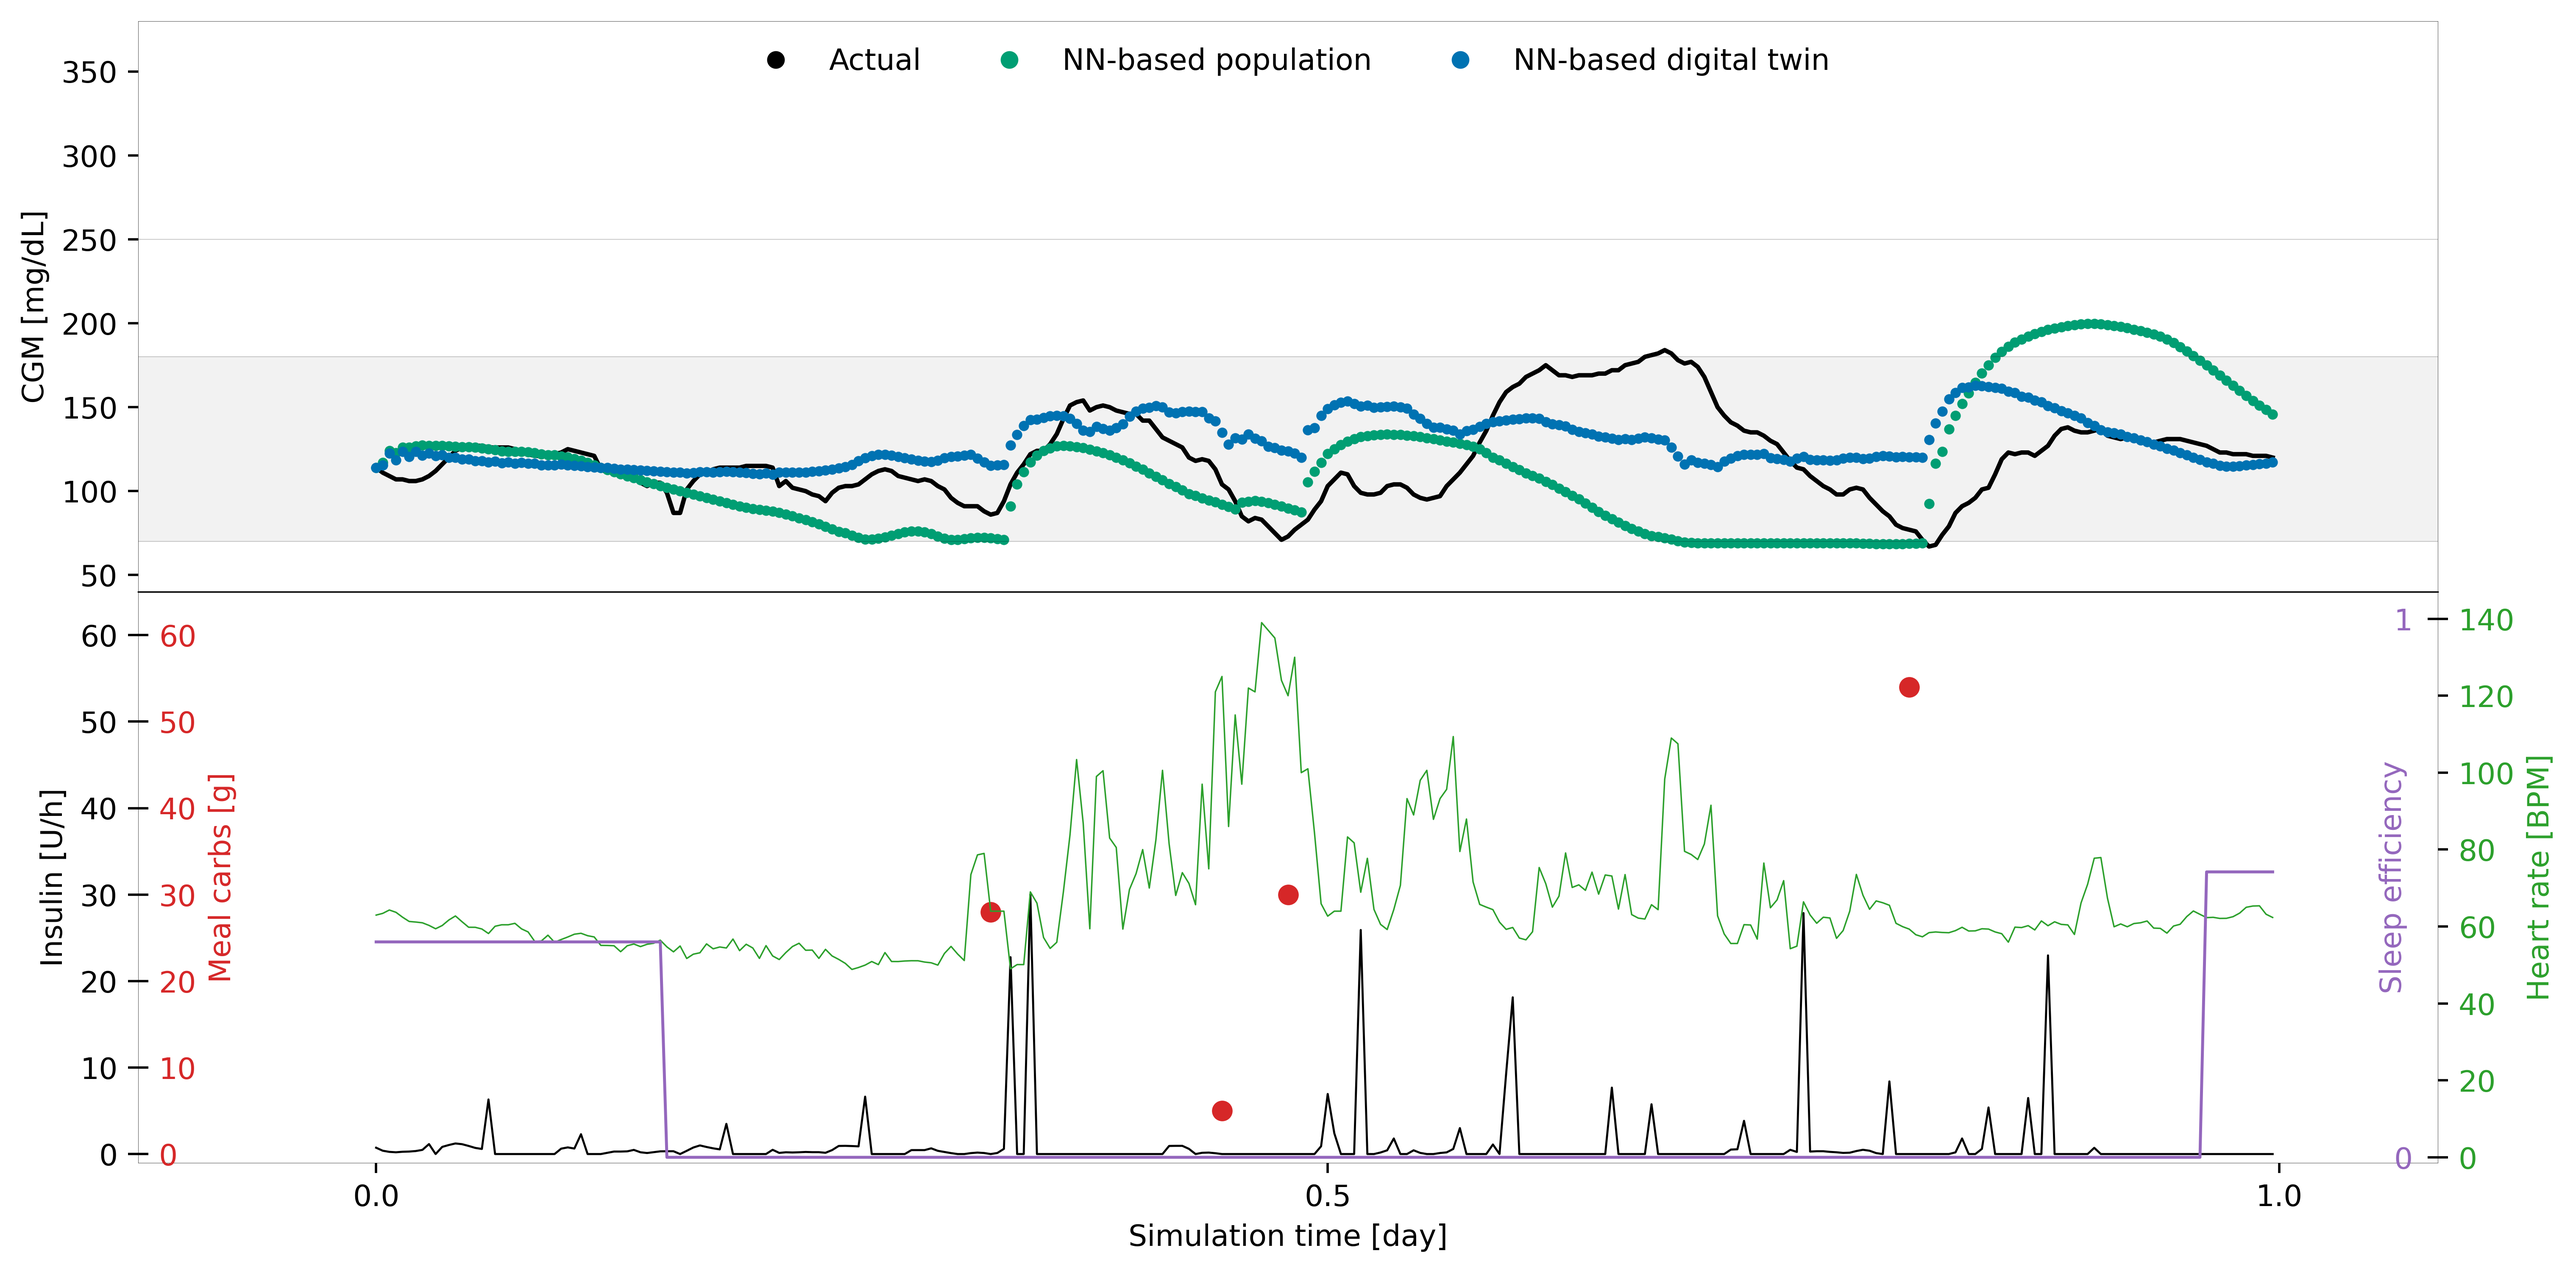
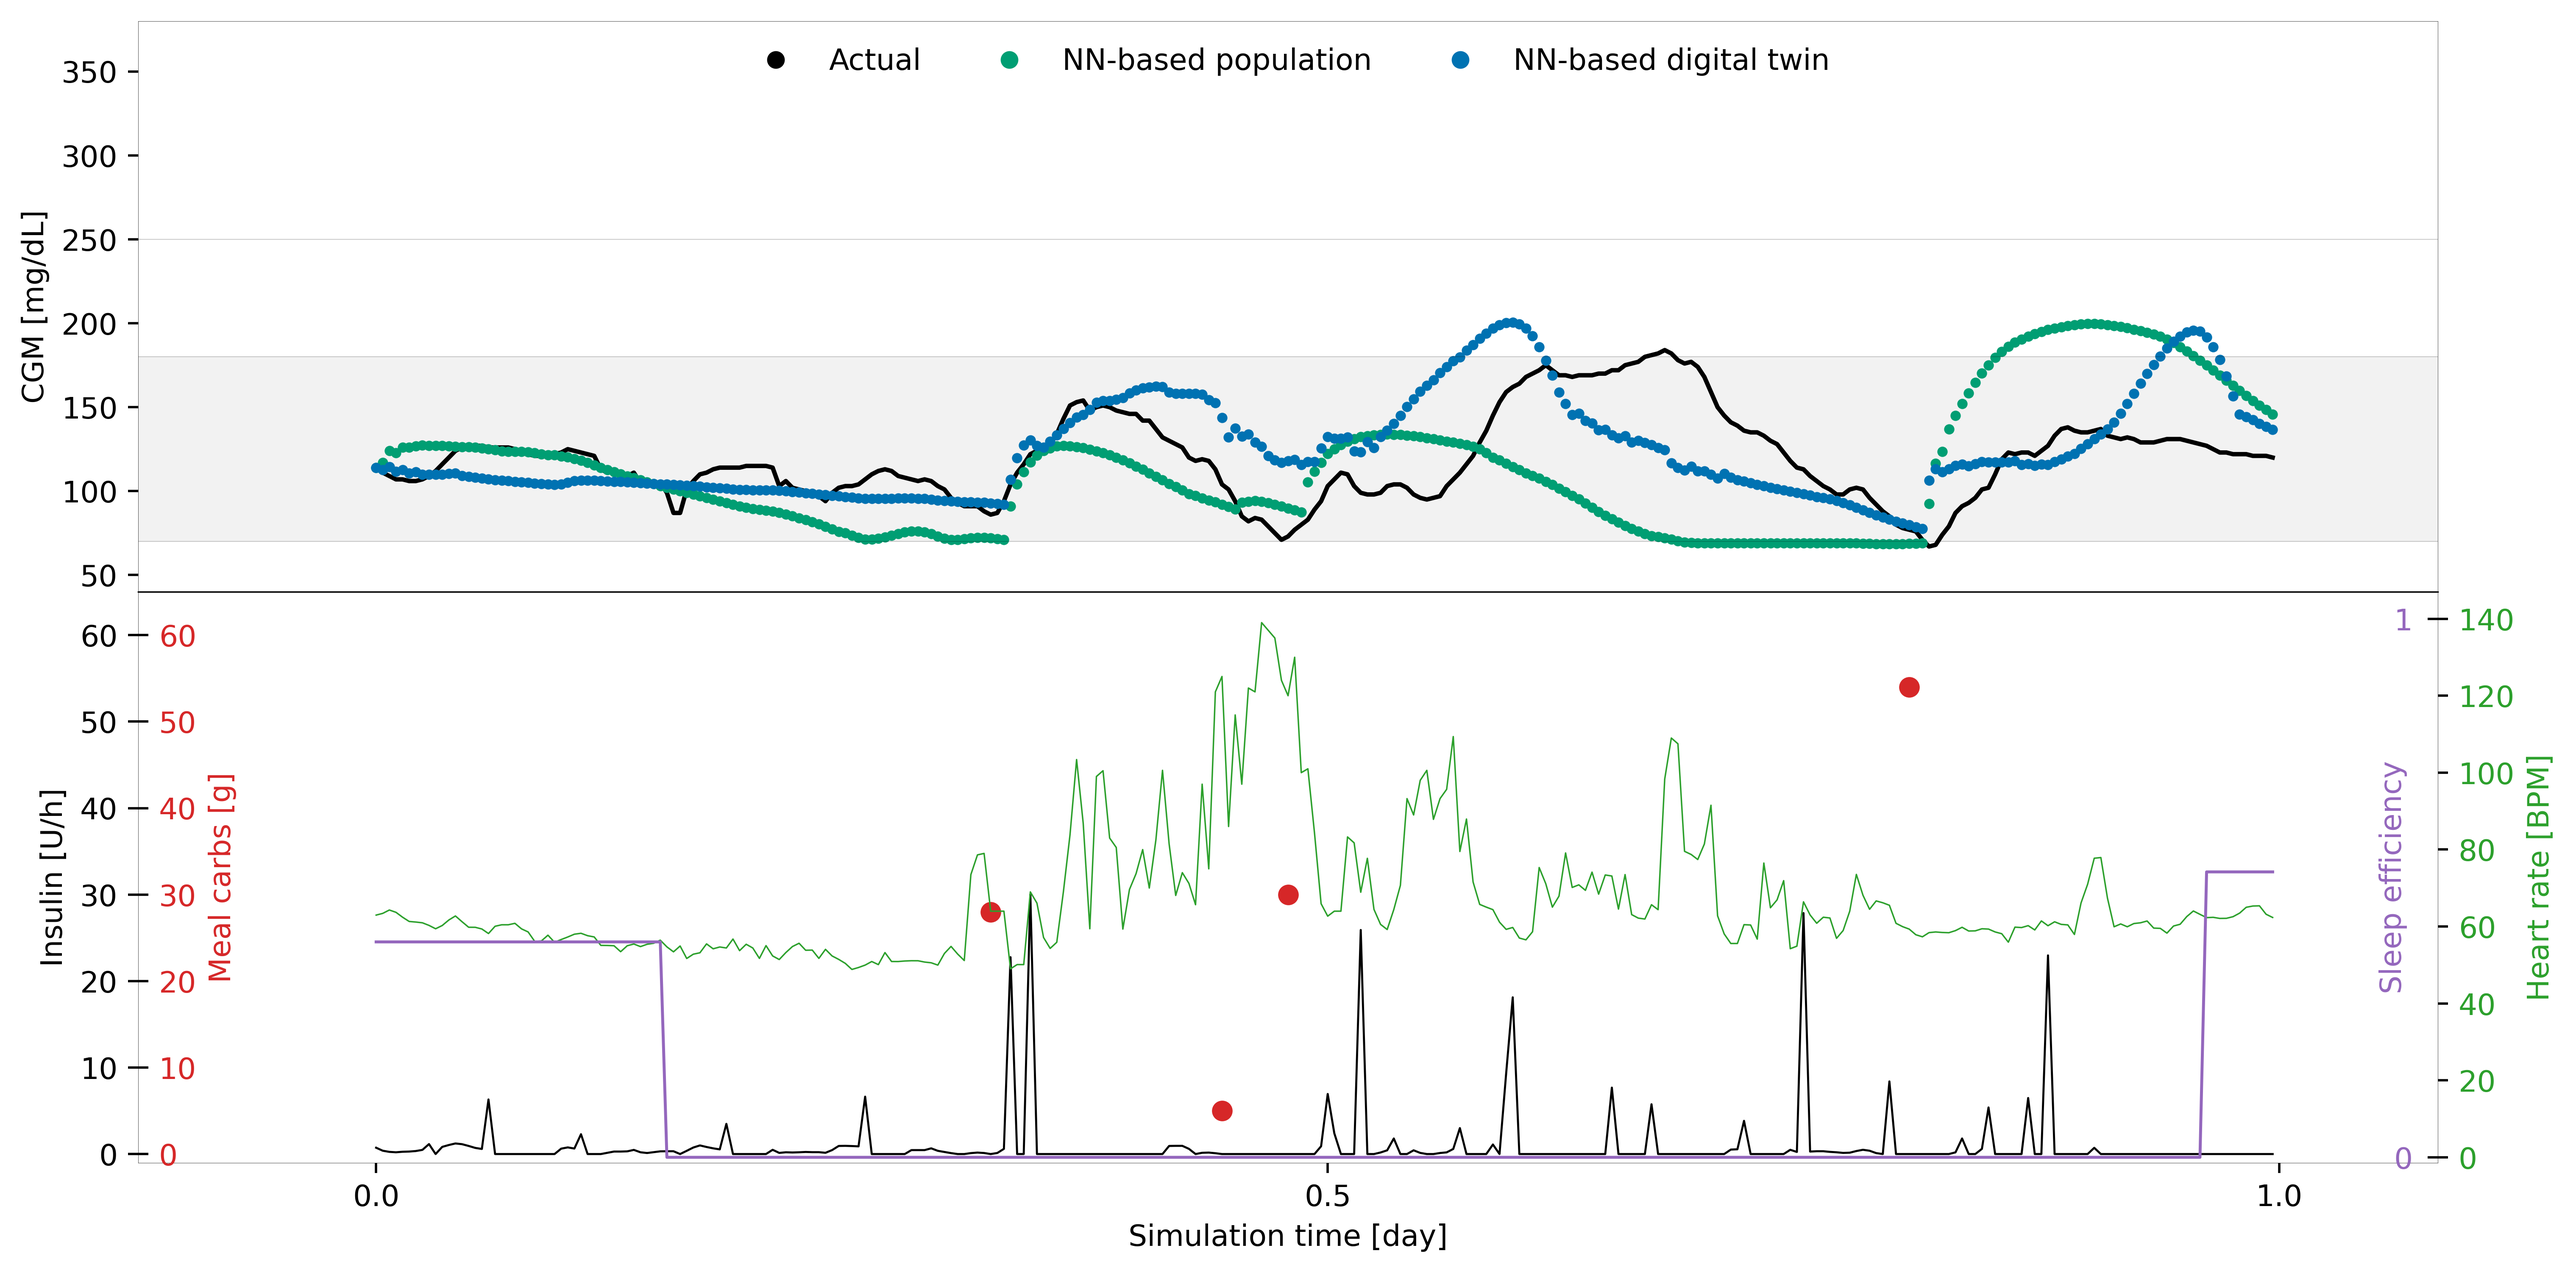
fix: getInitSSFromFile now has as input the cgm without scaling

diff --git a/src/t1dsim_ai/individual_model.py b/src/t1dsim_ai/individual_model.py
@@ -1,3 +1,5 @@
+import matplotlib.pyplot as plt
+
 from t1dsim_ai.utils.preprocess import scaler as scaler_pop
 from t1dsim_ai.utils.preprocess import (
     scaler_inverse,
@@ -118,6 +120,8 @@ class ForwardEulerSimulator(nn.Module):
                 x_step[:, 0] = self.adjust_cgm(x_step[:, 0])
 
         X_sim = torch.stack(X_sim_list, 0)
+
+
         return X_sim
 
 
@@ -231,11 +235,13 @@ class IndividualModel:
             u_ind_test[:, idx_robust]
         )
 
+        self.cgm_real_train = scale_inverse_Q1(np.copy(x_est_train[:, 0]),self.popModelFolder).reshape(-1, sim_time_train, 1)
         self.y_id_train = np.copy(x_est_train[:, 0]).reshape(-1, sim_time_train, 1)
         self.x_est_train = x_est_train.reshape(-1, sim_time_train, len(states))
         self.u_pop_train = u_pop_train.reshape(-1, sim_time_train, len(inputs_pop))
         self.u_ind_train = u_ind_train.reshape(-1, sim_time_train, len(input_ind))
 
+        self.cgm_real_test = scale_inverse_Q1(np.copy(x_est_test[:, 0]),self.popModelFolder).reshape(-1, sim_time_test, 1)
         self.y_id_test = np.copy(x_est_test[:, 0]).reshape(-1, sim_time_test, 1)
         self.x_est_test = x_est_test.reshape(-1, sim_time_test, len(states))
         self.u_pop_test = u_pop_test.reshape(-1, sim_time_test, len(inputs_pop))
@@ -263,7 +269,7 @@ class IndividualModel:
             self.seq_len,
             overlap,
             self.device,
-            [self.x_est_train, self.u_pop_train, self.y_id_train, self.u_ind_train],
+            [self.x_est_train, self.u_pop_train, self.y_id_train, self.u_ind_train,self.cgm_real_train],
         )
 
         # Setup neural model structure
@@ -404,7 +410,7 @@ class IndividualModel:
             )
 
         return LOSS_TRAIN[-1]
-
+    #"""
     def loss(self, y_pred, y_true):
         err_fit = y_pred[1:, :] - y_true[1:, :]
         err_df = torch.diff(y_pred, axis=0) - torch.diff(y_true, axis=0)
@@ -426,7 +432,12 @@ class IndividualModel:
         MSE_Dcgm = torch.mean((err_df) ** 2)
 
         return MSE_cgm + 10 * MSE_Dcgm
-
+    """
+    def loss(self, y_pred, y_true):
+        err_fit = y_pred[1:, :] - y_true[1:, :]
+        MSE_cgm = torch.mean(((err_fit) ** 2))
+        return MSE_cgm
+    """
 
 class Batch:
     def __init__(self, batch_size, seq_len, overlap, device, data):
@@ -437,7 +448,7 @@ class Batch:
         self.device = device
 
         # Reshape
-        x_est, u_fit, y_fit, u_fit_ind = data
+        x_est, u_fit, y_fit, u_fit_ind, cgm_real = data
         self.x_est = np.array(
             [
                 frame(
@@ -473,13 +484,22 @@ class Batch:
                 for i in range(len(u_fit_ind))
             ]
         ).reshape(-1, seq_len, u_fit_ind.shape[2])
+        self.cgm_real = np.array(
+            [
+                frame(
+                    cgm_real[i], frame_length=self.seq_len, hop_length=self.overlap, axis=0
+                )
+                for i in range(len(cgm_real))
+            ]
+        ).reshape(-1, seq_len, cgm_real.shape[2])
 
         idx_scenarios = self.filter_seq()  # Filter out sequences
 
         # Define initial states
         for scenario in idx_scenarios:
-            cgm_target = self.y_fit[scenario, 0, 0].item()
+            cgm_target = self.cgm_real[scenario, 0, 0].item()
             self.x_est[scenario, 0, :] = getInitSSFromFile(cgm_target)
+
 
         self.idx_scenarios_temp = idx_scenarios
         self.idx_scenarios = idx_scenarios
@@ -616,14 +636,14 @@ class SequenceSelection:
         idx_scenarios = self.get_sequences(data)  # Filter out sequences
 
         for scenario in idx_scenarios:
-            cgm_target = self.y_fit[scenario, 0, 0].item()
+            cgm_target = self.cgm_real[scenario, 0, 0].item()
             self.x_est[scenario, 0, :] = getInitSSFromFile(cgm_target)
 
         # Define initial states
         self.idx_scenarios = idx_scenarios
 
     def get_sequences(self, data):
-        x_est, u_fit, y_fit, u_fit_ind = data
+        x_est, u_fit, y_fit, u_fit_ind, cgm_real = data
 
         idx_list = []
         idx = 0
@@ -654,6 +674,7 @@ class SequenceSelection:
         self.u_fit = u_fit[0, batch_idx, :]
         self.y_fit = y_fit[0, batch_idx, :]
         self.u_fit_ind = u_fit_ind[0, batch_idx, :]
+        self.cgm_real = cgm_real[0, batch_idx, :]
 
         return np.arange(len(idx_list))
 
@@ -752,6 +773,7 @@ class DigitalTwin:
 
         df_scenario[states] = df_scenario[states].astype(float)
 
+
         df_scenario.loc[0, states] = dfInitStates.loc[
             df_scenario.loc[0, states[0]].astype("int64"), states
         ]
@@ -829,6 +851,7 @@ def getInitSSFromFile(cgm_target):
         cgm_target = 40
     if cgm_target > 400:
         cgm_target = 400
+
     dfInitStates = pd.read_csv(
         Path(__file__).parent / "models/initSteadyStates.csv"
     ).set_index("initCGM")

diff --git a/example/trainDigitalTwin.py b/example/trainDigitalTwin.py
@@ -70,12 +70,14 @@ def trainModel(
                 NNIndividual.u_pop_train,
                 NNIndividual.y_id_train,
                 NNIndividual.u_ind_train,
+                NNIndividual.cgm_real_train,
             ],
             "test": [
                 NNIndividual.x_est_test,
                 NNIndividual.u_pop_test,
                 NNIndividual.y_id_test,
                 NNIndividual.u_ind_test,
+                NNIndividual.cgm_real_test,
             ],
         }
 
@@ -195,6 +197,7 @@ def trainModel(
 if __name__ == "__main__":
     # Architecture individual models
     n_neurons = 128
+
     hidden_compartments = {
         "models": [5 + len(input_ind), n_neurons, n_neurons // 2, n_neurons // 4, 1]
     }

diff --git a/example/runDigitalTwin.py b/example/runDigitalTwin.py
@@ -1,13 +1,13 @@
 import pandas as pd
 
 from t1dsim_ai.individual_model import DigitalTwin
-
+from t1dsim_ai.utils import metrics
 import numpy as np
 import matplotlib.pyplot as plt
 
 df_simulation = pd.read_csv("example_model/data_example.csv")
 df_simulation = df_simulation[~df_simulation.is_train]
-myDigitalTwin = DigitalTwin(n_digitalTwin=0)
+myDigitalTwin = DigitalTwin(custom_DT='/Users/roquemev/Library/CloudStorage/OneDrive-OregonHealth&ScienceUniversity/Documents/OHSU/Tools/T1DSim_AI/example/example_model/DT_Example/')
 df_simulation = myDigitalTwin.simulate(df_simulation.iloc[1 * 12 * 24 : 2 * 12 * 24])
 
 # Visualization

diff --git a/src/t1dsim_ai/options.py b/src/t1dsim_ai/options.py
@@ -4,7 +4,7 @@ import torch
 device = torch.device("cpu")
 
 # Inputs population models
-inputs = ["input_insulin", "input_meal_carbs"]
+inputs = np.array(["input_insulin", "input_meal_carbs"])
 
 # Inputs individual models
 input_ind = [
@@ -91,3 +91,4 @@ n_neurons = 128
 hidden_compartments = {
     "models": [5 + len(input_ind), n_neurons, n_neurons // 2, n_neurons // 4, 1]
 }
+
